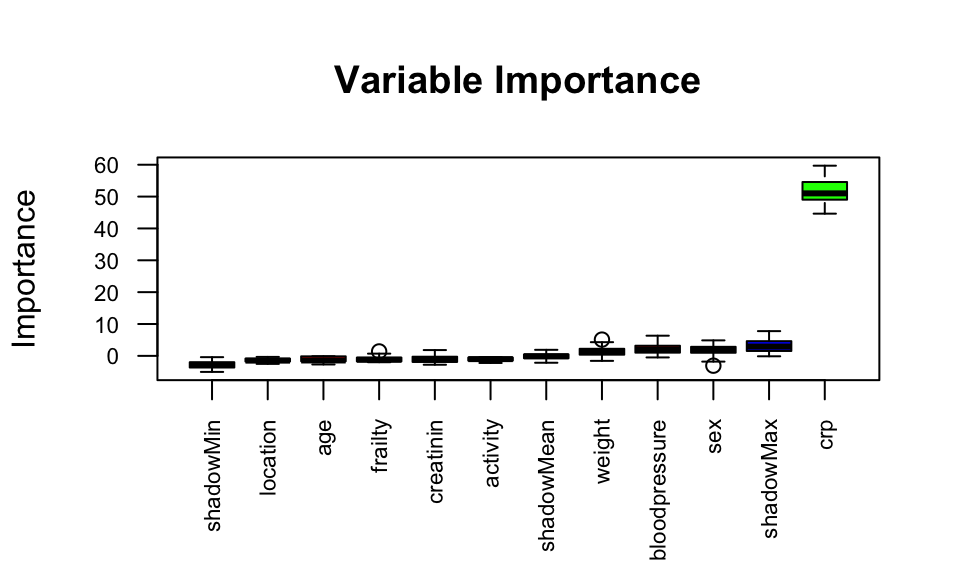
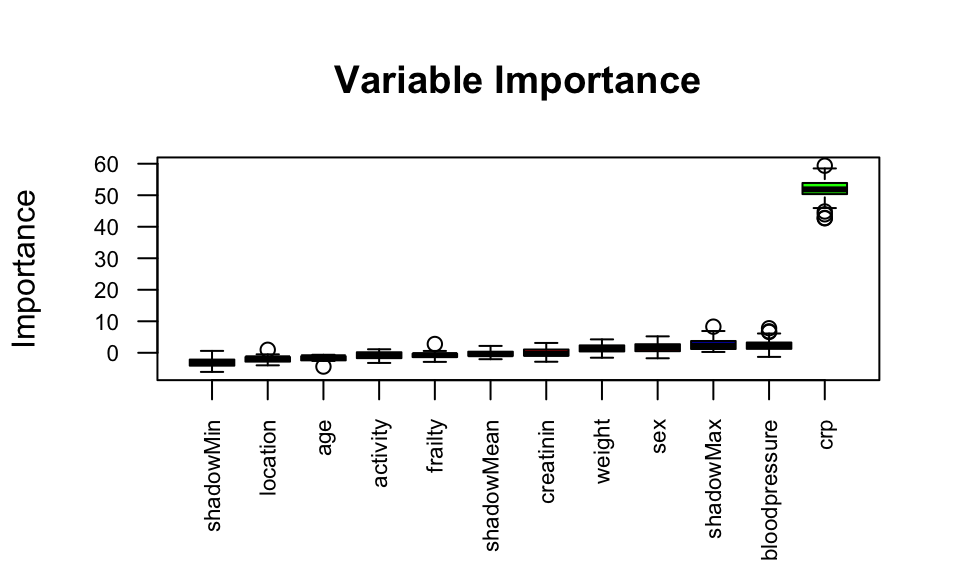
added text

diff --git a/docs/stat-modeling-variable-selection.html b/docs/stat-modeling-variable-selection.html
@@ -406,7 +406,7 @@ div.csl-indent {
 </li>
         <li class="sidebar-item">
   <div class="sidebar-item-container"> 
-  <a href="./stat-modeling-sensitivity.html" class="sidebar-item-text sidebar-link"><span class="chapter-number">38</span>&nbsp; <span class="chapter-title">Grundlagen der Sensitivitätsanalyse</span></a>
+  <a href="./stat-modeling-sensitivity.html" class="sidebar-item-text sidebar-link"><span class="chapter-number">38</span>&nbsp; <span class="chapter-title">Sensitivitätsanalyse</span></a>
   </div>
 </li>
         <li class="sidebar-item">
@@ -552,7 +552,7 @@ div.csl-indent {
 </header><div class="cell">
 
 </div>
-<p><em>Version vom October 31, 2022 um 09:40:24</em></p>
+<p><em>Version vom October 31, 2022 um 10:13:56</em></p>
 <div class="quarto-figure quarto-figure-center">
 <figure class="figure"><p><img src="images/caution.png" class="img-fluid figure-img" style="width:50.0%"></p>
 </figure>
@@ -571,15 +571,19 @@ div.csl-indent {
 
 <div class="no-row-height column-margin column-container"><div class="">
 <p>Das <a href="https://olsrr.rsquaredacademy.com/articles/variable_selection.html">R Paket <code>olsrr</code></a> erlaubt eine weitreichende Variablen Selektion, wenn ein normalverteiltes Outcome <span class="math inline">\(y\)</span> vorliegt.</p>
-</div></div><p>Im Folgenden will ich <em>kurz</em> die fünf Mythen der Variablenselektion von <span class="citation" data-cites="heinze2017five">Heinze und Dunkler (<a href="#ref-heinze2017five" role="doc-biblioref">2017</a>)</span> zusammenfassen. Wie immer ersetzt meine deutsche Zusammenfassung nicht das eigenständige Lesen der <em>englischen</em> Orgnialquelle, wenn du die Informationen in deiner Bachelorarbeit zitieren willst.</p>
+</div></div><p>Im Folgenden will ich <em>kurz</em> die fünf Mythen der Variablenselektion von <span class="citation" data-cites="heinze2017five">Heinze und Dunkler (<a href="#ref-heinze2017five" role="doc-biblioref">2017</a>)</span> zusammenfassen. Wie immer ersetzt meine deutsche Zusammenfassung und Auswahl nicht das eigenständige Lesen der <em>englischen</em> Orgnialquelle, wenn du die Informationen in deiner Abschlussarbeit zitieren willst.</p>
 <ol type="1">
-<li>Die Anzahl der Variablen in einem Modell sollte reduziert werden, bis es 10 Ereignisse pro Variable gibt.</li>
-<li>Nur Variablen mit nachgewiesener Signifikanz des univariaten Modells sollten in ein Modell aufgenommen werden.</li>
-<li>Nicht signifikante Effekte sollten aus einem Modell entfernt werden.</li>
-<li>Der berichtete P-Wert quantifiziert den Typ-I-Fehler einer fälschlich ausgewählten Variablen.</li>
-<li>Variablenauswahl vereinfacht die Analyse.</li>
+<li>
+<strong>Die Anzahl der Variablen in einem Modell sollte reduziert werden, bis es 10 Ereignisse pro Variable gibt.</strong> Simulationsstudien haben gezeigt, dass multivariable Modelle bei zu niedrigen Verhältnissen von Ereignissen bzw. Beobachtungen pro Variable (eng <em>events per variable</em>, abk. <em>EPV</em>) sehr instabil werden. Aktuelle Empfehlungen besagen, dass je nach Kontext mindestens 5-15 EPV verfügbar sein sollten. Wahrscheinlich sind sogar viel höhere Werte wie 50 EPV erforderlich, um annähernd stabile Ergebnisse zu erzielen.</li>
+<li>
+<strong>Nur Variablen mit nachgewiesener Signifikanz des univariaten Modells sollten in ein Modell aufgenommen werden.</strong> Die univariable Vorfilterung trägt nicht zur Stabilität des Auswahlprozesses bei, da sie auf stochastischen Quanten beruht und dazu führen kann, dass wichtige Anpassungsvariablen übersehen werden.</li>
+<li>
+<strong>Nicht signifikante Effekte sollten aus einem Modell entfernt werden.</strong> Regressionskoeffizienten hängen im Allgemeinen davon ab, welche anderen Variablen in einem Modell enthalten sind, und ändern folglich ihren Wert, wenn eine der anderen Variablen in einem Modell weggelassen wird.</li>
+<li>
+<strong>Der berichtete P-Wert quantifiziert den Typ-I-Fehler einer fälschlich ausgewählten Variablen.</strong> Ein P-Wert ist ein Ergebnis der Datenerhebung und -analyse und quantifiziert die Plausibilität der beobachteten Daten unter der Nullhypothese. Daher quantifiziert der P-Wert nicht den Fehler vom Typ I. Es besteht auch die Gefahr einer falschen Eliminierung von Variablen, deren Auswirkungen durch die bloße Angabe des endgültigen Modells eines Variablenauswahlverfahrens überhaupt nicht quantifiziert werden können.</li>
+<li>
+<strong>Variablenauswahl vereinfacht die Analyse.</strong> Für das jeweilige Problem muss eine geeignete Variablenauswahlmethode gewählt werden. Statistiker haben die Rückwärtselimination als die zuverlässigste unter den Methoden empfohlen, die sich mit Standardsoftware leicht durchführen lassen. Eine Auswahl ist eine “harte Entscheidung”, die aber oft auf vagen Größen beruht. Untersuchungen zur Modellstabilität sollten jede angewandte Variablenauswahl begleiten, um die Entscheidung für das schließlich berichtete Modell zu rechtfertigen oder zumindest die mit der Auswahl der Variablen verbundene Unsicherheit zu quantifizieren.</li>
 </ol>
-<p>“Variable selection should always be accompanied by sensitivity analyses to avoid wrong conclusions.”</p>
 <p>Im Weiteren sei auch noch auf <span class="citation" data-cites="heinze2018variable">Heinze, Wallisch, und Dunkler (<a href="#ref-heinze2018variable" role="doc-biblioref">2018</a>)</span> und <span class="citation" data-cites="talbot2019descriptive">Talbot und Massamba (<a href="#ref-talbot2019descriptive" role="doc-biblioref">2019</a>)</span> verwiesen. Beide Veröffentlichungen liefern nochmal einen fundierten Block auf die Variablenselektion. Wiederum ist das natürlich nur ein winziger Ausschnitt aus der Literatur zur Variablenselektion. Im Zweifel einfach einmal bei <a href="https://scholar.google.com/scholar?hl=de&amp;as_sdt=0%2C5&amp;q=variable+selection+review&amp;btnG=">Google Scholar</a> nach Variablenselektion suchen.</p>
 <div class="callout-caution callout callout-style-default callout-captioned">
 <div class="callout-header d-flex align-content-center">
@@ -591,6 +595,7 @@ Sensitivitätsanalysen nach der Variablenselektion
 </div>
 </div>
 <div class="callout-body-container callout-body">
+<p><em>“Variable selection should always be accompanied by sensitivity analyses to avoid wrong conclusions.”</em> <span class="citation" data-cites="heinze2017five">(<a href="#ref-heinze2017five" role="doc-biblioref">Heinze und Dunkler 2017</a>, p.&nbsp;9)</span></p>
 <p>Nachdem wir Variablen aus unseren Daten entfernt haben, ist es üblich noch eine Sensitivitätsanalysen durchzuführen. Wir Vergleich dann das selektierte Modell mit <em>anderen</em> Modellen. Oder wir wollen die Frage beantworten, was hat eigentlich meine Variablenselektion am Ergebnis geändert? Habe ich eine wichtige Variable rausgeschmissen? Das machen wir dann gesammelt in dem <a href="stat-modeling-sensitivity.html"><span>Kapitel&nbsp;38</span></a> zu den Sensitivitätsanalysen.</p>
 </div>
 </div>
@@ -833,13 +838,15 @@ Sensitivitätsanalysen nach der Variablenselektion
 <p><span class="math display">\[
 2 * crp + 0.5 * sex + 0.5 * frailty + 0.2 * bloodpressure + 0.05 * creatinin +  0.01 * weight
 \]</span></p>
-</section><section id="methoden-der-variablenselektion" class="level2" data-number="35.4"><h2 data-number="35.4" class="anchored" data-anchor-id="methoden-der-variablenselektion">
+</section><section id="methoden-der-variablenselektion" class="level2 page-columns page-full" data-number="35.4"><h2 data-number="35.4" class="anchored" data-anchor-id="methoden-der-variablenselektion">
 <span class="header-section-number">35.4</span> Methoden der Variablenselektion</h2>
 <section id="per-hand" class="level3" data-number="35.4.1"><h3 data-number="35.4.1" class="anchored" data-anchor-id="per-hand">
 <span class="header-section-number">35.4.1</span> Per Hand</h3>
-<p>“Oft gibt es keinen wissenschaftlichen Grund, eine Variablenauswahl durchzuführen. Insbesondere erfordern Methoden der Variablenselektion einen viel größeren Stichprobenumfang als die Schätzung eines multiplen Modells mit einem festen Satz von Prädiktoren auf der Grundlage klinischer Erfahrung.”</p>
-</section><section id="univariate-vorselektion" class="level3" data-number="35.4.2"><h3 data-number="35.4.2" class="anchored" data-anchor-id="univariate-vorselektion">
+<p><em>“Oft gibt es keinen wissenschaftlichen Grund, eine Variablenauswahl durchzuführen. Insbesondere erfordern Methoden der Variablenselektion einen viel größeren Stichprobenumfang als die Schätzung eines multiplen Modells mit einem festen Satz von Prädiktoren auf der Grundlage klinischer Erfahrung.”</em> <span class="citation" data-cites="heinze2017five">(Übersetzt nach <a href="#ref-heinze2017five" role="doc-biblioref">Heinze und Dunkler 2017</a>, p.&nbsp;9)</span></p>
+</section><section id="univariate-vorselektion" class="level3 page-columns page-full" data-number="35.4.2"><h3 data-number="35.4.2" class="anchored" data-anchor-id="univariate-vorselektion">
 <span class="header-section-number">35.4.2</span> Univariate Vorselektion</h3>
+<p><em>“Obwohl die univariable Vorfilterung nachvollziehbar und mit Standardsoftware leicht durchführbar ist, sollte man sie besser ganz vergessen, da sie für die Erstellung multivariabler Modelle weder Voraussetzung noch von Nutzen ist.”</em> <span class="citation" data-cites="heinze2017five">(Übersetzt nach <a href="#ref-heinze2017five" role="doc-biblioref">Heinze und Dunkler 2017</a>, p.&nbsp;8)</span></p>
+<div class="page-columns page-full"><p></p><div class="no-row-height column-margin column-container"><span class="aside">Ich sage immer, auch mit einem Hammer kann man Scheiben putzen. Halt nur einmal… Deshalb auch hier die univariate Variante der Vorselektion.</span></div></div>
 <div class="cell">
 <div class="sourceCode" id="cb2"><pre class="downlit sourceCode r code-with-copy"><code class="sourceCode R"><span><span class="va">chickpea_tbl</span> <span class="op">%&gt;%</span></span>
 <span>  <span class="fu">select</span><span class="op">(</span><span class="op">-</span><span class="va">dryweight</span><span class="op">)</span> <span class="op">%&gt;%</span>                   </span>
@@ -1070,10 +1077,12 @@ Residual Deviance: 407.01   AIC: 415.01</code></pre>
 <span></span>
 <span><span class="fu">pluck</span><span class="op">(</span><span class="va">fit</span>, <span class="st">"variable.importance"</span><span class="op">)</span> <span class="op">%&gt;%</span> <span class="fu"><a href="https://rdrr.io/r/base/sort.html">sort</a></span><span class="op">(</span>decreasing <span class="op">=</span> <span class="cn">TRUE</span><span class="op">)</span></span></code><button title="In die Zwischenablage kopieren" class="code-copy-button"><i class="bi"></i></button></pre></div>
 <div class="cell-output cell-output-stdout">
-<pre><code>           crp         weight  bloodpressure            sex      creatinin 
- 0.10876296134  0.00557413274  0.00338514594  0.00257749352  0.00018805852 
-      location        frailty       activity            age 
--0.00065443485 -0.00123445637 -0.00138800177 -0.00249826531 </code></pre>
+<pre><code>             crp           weight    bloodpressure              sex 
+ 0.1098981383094  0.0043908291613  0.0029928209870  0.0022854901984 
+        location          frailty              age        creatinin 
+ 0.0000520519165  0.0000002202747 -0.0012670222690 -0.0014818550408 
+        activity 
+-0.0042500673524 </code></pre>
 </div>
 </div>
 </section><section id="boruta" class="level3" data-number="35.4.6"><h3 data-number="35.4.6" class="anchored" data-anchor-id="boruta">
@@ -1085,10 +1094,11 @@ Residual Deviance: 407.01   AIC: 415.01</code></pre>
 <span></span>
 <span><span class="va">boruta_output</span></span></code><button title="In die Zwischenablage kopieren" class="code-copy-button"><i class="bi"></i></button></pre></div>
 <div class="cell-output cell-output-stdout">
-<pre><code>Boruta performed 90 iterations in 3.604099 secs.
+<pre><code>Boruta performed 99 iterations in 4.880954 secs.
  1 attributes confirmed important: crp;
- 8 attributes confirmed unimportant: activity, age, bloodpressure,
-creatinin, frailty and 3 more;</code></pre>
+ 7 attributes confirmed unimportant: activity, age, creatinin, frailty,
+location and 2 more;
+ 1 tentative attributes left: bloodpressure;</code></pre>
 </div>
 </div>
 <div class="cell" data-layout-align="center">
@@ -1102,14 +1112,12 @@ creatinin, frailty and 3 more;</code></pre>
 </div>
 </div>
 <div class="cell">
-<div class="sourceCode" id="cb18"><pre class="downlit sourceCode r code-with-copy"><code class="sourceCode R"><span><span class="va">tent_boruta</span> <span class="op">&lt;-</span> <span class="fu">TentativeRoughFix</span><span class="op">(</span><span class="va">boruta_output</span><span class="op">)</span></span></code><button title="In die Zwischenablage kopieren" class="code-copy-button"><i class="bi"></i></button></pre></div>
-<div class="cell-output cell-output-stderr">
-<pre><code>Warning in TentativeRoughFix(boruta_output): There are no Tentative attributes!
-Returning original object.</code></pre>
-</div>
-<div class="sourceCode" id="cb20"><pre class="downlit sourceCode r code-with-copy"><code class="sourceCode R"><span><span class="va">tent_boruta</span></span></code><button title="In die Zwischenablage kopieren" class="code-copy-button"><i class="bi"></i></button></pre></div>
+<div class="sourceCode" id="cb18"><pre class="downlit sourceCode r code-with-copy"><code class="sourceCode R"><span><span class="va">tent_boruta</span> <span class="op">&lt;-</span> <span class="fu">TentativeRoughFix</span><span class="op">(</span><span class="va">boruta_output</span><span class="op">)</span></span>
+<span></span>
+<span><span class="va">tent_boruta</span></span></code><button title="In die Zwischenablage kopieren" class="code-copy-button"><i class="bi"></i></button></pre></div>
 <div class="cell-output cell-output-stdout">
-<pre><code>Boruta performed 90 iterations in 3.604099 secs.
+<pre><code>Boruta performed 99 iterations in 4.880954 secs.
+Tentatives roughfixed over the last 99 iterations.
  1 attributes confirmed important: crp;
  8 attributes confirmed unimportant: activity, age, bloodpressure,
 creatinin, frailty and 3 more;</code></pre>
